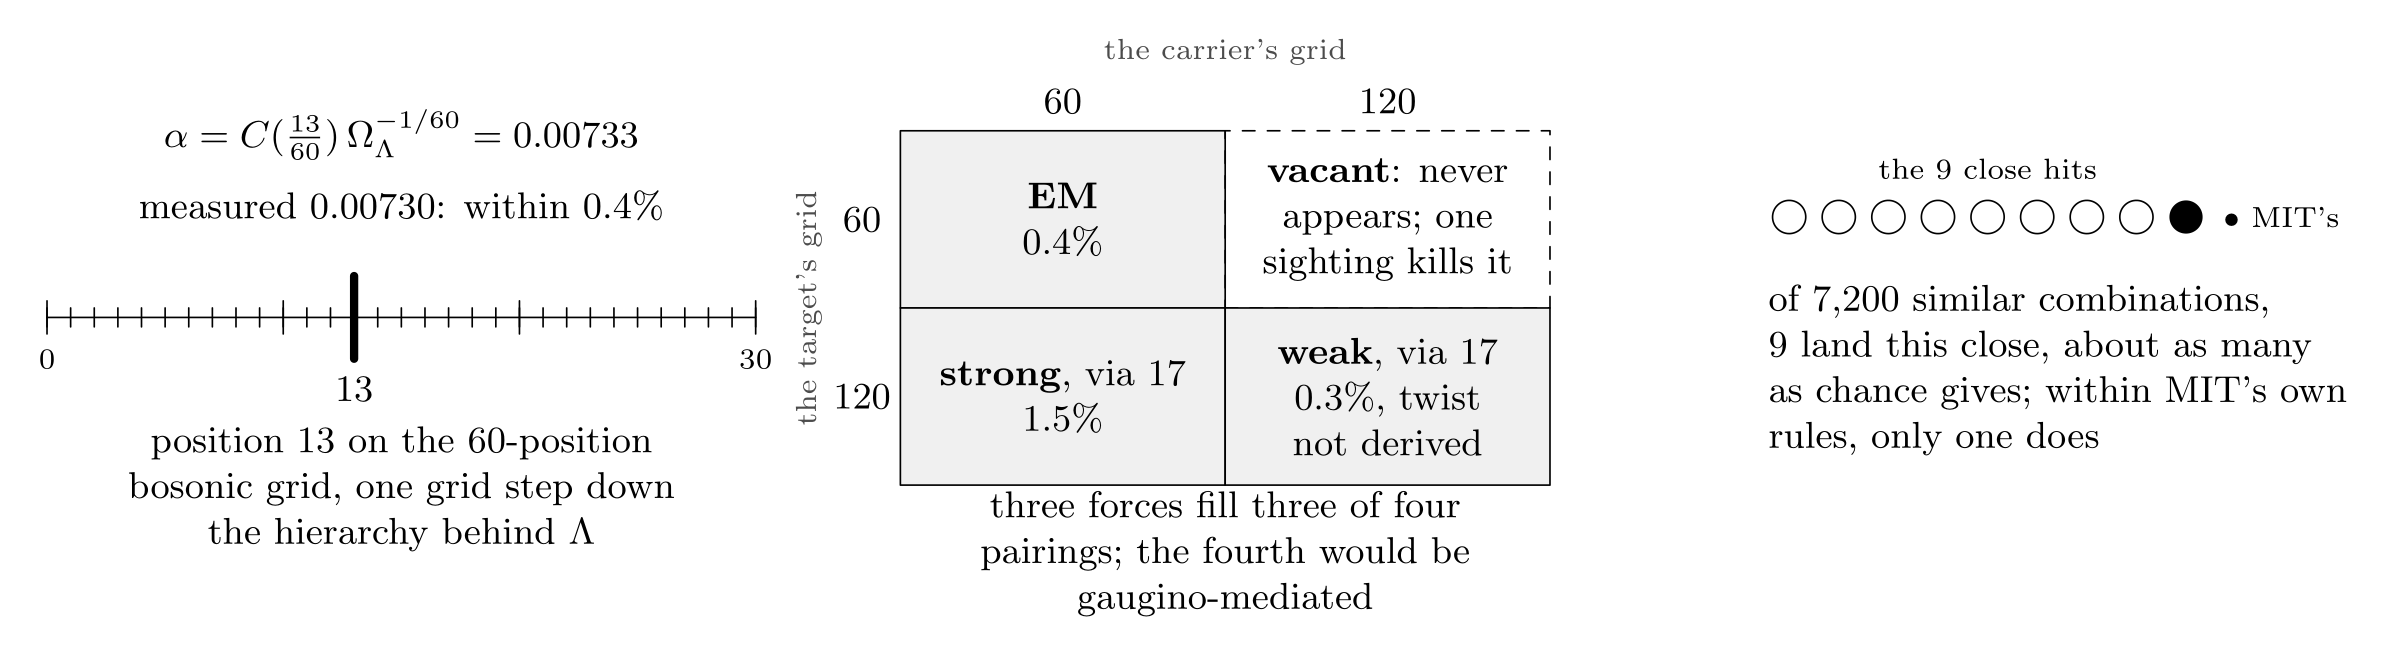
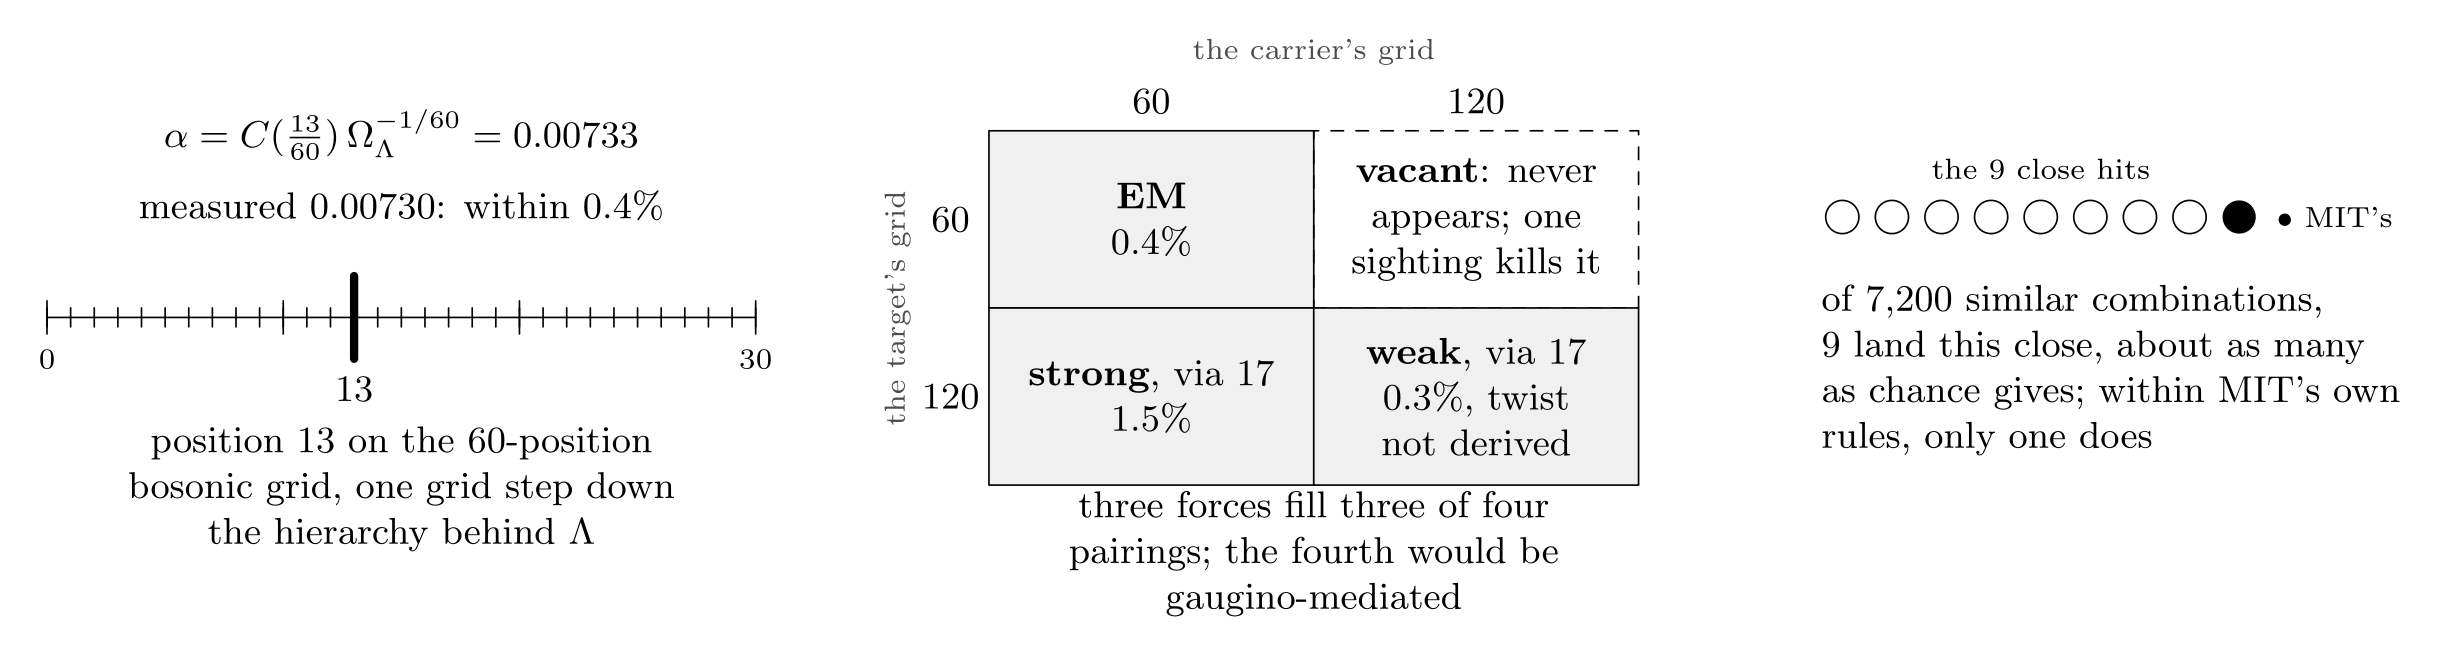
Spectrum: Fine Structure's ladder centered in its figure

diff --git a/files/spectrum/README.md b/files/spectrum/README.md
@@ -41,7 +41,7 @@ With the electron setting the scale, entries land within a factor of 3 of five o
 
 ## [Fine Structure](files/fine-structure.md)
 
-<p align="center"><img src="https://github.com/dmobius3/mode-identity-theory/blob/main/files/assets/fs-hero.png?raw=true" width="89%" alt="Left: alpha = C(13/60) Omega^(-1/60) = 0.00733, measured 0.00730, within 0.4%: position 13 on the 60-position bosonic grid, one grid step down the hierarchy behind Lambda. Middle: the grid ladder, the carrier's grid against the target's grid: EM at 0.4%, strong via 17 at 1.5%, weak via 17 at 0.3% with a twist not derived, and the vacant fourth pairing, which never appears, and one sighting kills it; the fourth would be gaugino-mediated. Right: of 7,200 similar combinations, 9 land this close, about as many as chance gives; within MIT's own rules, only one does"></p>
+<p align="center"><img src="https://github.com/dmobius3/mode-identity-theory/blob/main/files/assets/fs-hero.png?raw=true" width="91%" alt="Left: alpha = C(13/60) Omega^(-1/60) = 0.00733, measured 0.00730, within 0.4%: position 13 on the 60-position bosonic grid, one grid step down the hierarchy behind Lambda. Middle: the grid ladder, the carrier's grid against the target's grid: EM at 0.4%, strong via 17 at 1.5%, weak via 17 at 0.3% with a twist not derived, and the vacant fourth pairing, which never appears, and one sighting kills it; the fourth would be gaugino-mediated. Right: of 7,200 similar combinations, 9 land this close, about as many as chance gives; within MIT's own rules, only one does"></p>
 
 **The Number Has an Address.** In 1985, Feynman described 1/137, the strength of electromagnetism, as a number that arrives without explanation. MIT gives it an address: position 13 on the 60-position grid it assigns to bosonic couplings, suppressed by one grid step of the vacuum hierarchy behind the cosmological constant. With that hierarchy fixed from the measured cosmological constant, the result lands within 0.4% of the low-energy value. Accuracy alone would prove little: of 7,200 similar combinations, 9 land that close, about as many as chance gives, but within MIT's own rules only this one does. Position 13's partner, 17, on the other grids gives the strong coupling within 1.5% and, with a twist factor $`\cos(\pi/10)`$ whose insertion isn't derived, the weak within 0.3%. The three forces fill three of the four pairings on that ladder. The empty fourth, a fermionic carrier acting on bosonic matter, is where gaugino-mediated supersymmetric forces would sit, and MIT predicts they never appear as a fundamental interaction; seeing one at any energy would kill the prediction.
 
